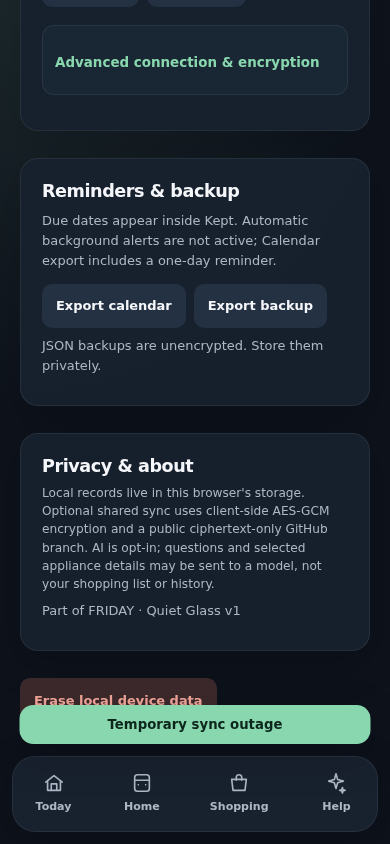
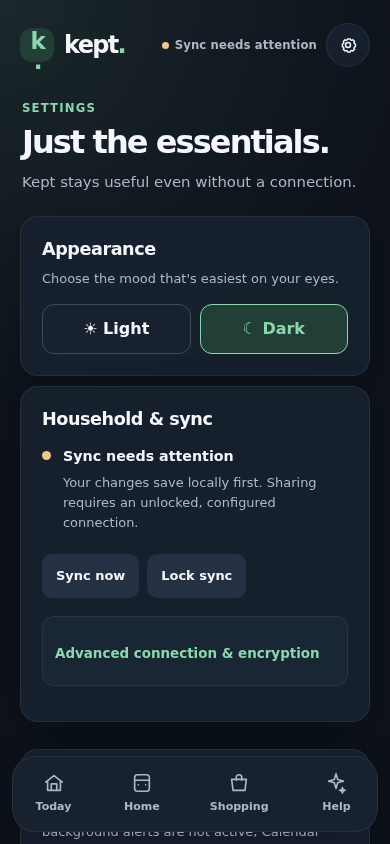
Polish sync failure state and 430px mobile coverage

diff --git a/styles.css b/styles.css
@@ -167,6 +167,7 @@ textarea { min-height: 95px; resize: vertical; }
   --warn:#F1C783; --danger:#F2A59A; --danger-soft:#3C292B;
   --focus:#BCEAFF; --shadow:0 12px 44px rgba(0,0,0,.16);
 }
+html { scroll-behavior:auto; }
 body { background:var(--background); color:var(--text); }
 .ambient { background:radial-gradient(circle at 0 0,rgba(137,215,174,.11),transparent 44%),var(--background); }
 .glow { display:none; }

diff --git a/app.js b/app.js
@@ -108,6 +108,7 @@ async function performSync(showToast = true) {
   } catch (error) {
     syncStatus = "error";
     updateConnection();
+    if (tab === "settings") render();
     if (showToast) notify(error.message);
     console.warn("Kept sync could not complete:", error.message);
   } finally {

diff --git a/docs/QUIET_GLASS_V1.md b/docs/QUIET_GLASS_V1.md
@@ -67,7 +67,7 @@ The original first-run state uses a concise “All caught up” prompt and Add a
 
 A [Kept Figma file](https://www.figma.com/design/Wg8dne62ksSUKu6p5lj0GP) was created to host editable Today, Shopping, appliance, settings, first-run and failure flows. **Figma MCP rejected the first edit with the Starter-plan tool-call limit**, so that file does not yet contain completed editable designs. Do not mark the Figma acceptance check as passed. Use this spec and synthetic screenshots to resume after the connected plan's quota becomes available; do not buy an upgrade automatically.
 
-Source test coverage includes core dates/AES-GCM/conflict merging, Friday security/projection boundaries, mocked DOM appliance setup, and Playwright shopping/maintenance/theme/offline/failed-sync workflows. Chromium was exercised locally; WebKit is configured in CI but cannot be launched in this container without missing host libraries. CI results must be read from the PR before approval. No live two-device, cloud Worker, iPhone VoiceOver or production deployment verification is claimed.
+Source test coverage includes core dates/AES-GCM/conflict merging, Friday security/projection boundaries, mocked DOM appliance setup, and Playwright shopping/maintenance/theme/offline/failed-sync workflows. Chromium was exercised locally at 390 × 844 and 430 × 932; WebKit is configured in CI but cannot be launched in this container without missing host libraries. CI results must be read from the PR before approval. No live two-device, cloud Worker, iPhone VoiceOver or production deployment verification is claimed.
 
 ## Review and rollback
 
